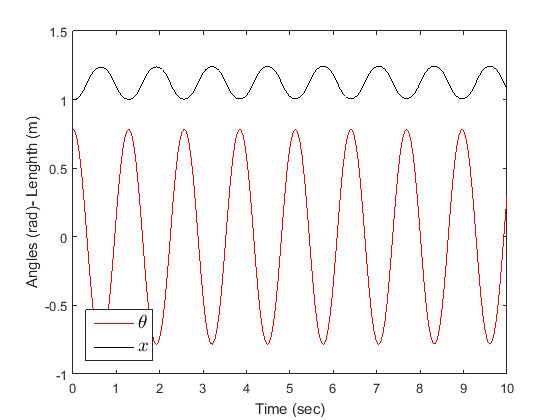
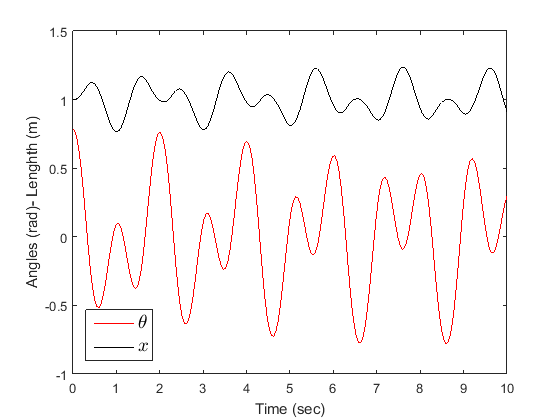
Example 3 Updated

diff --git a/Animator3.m b/Animator3.m
@@ -10,22 +10,31 @@ try
     
     th1 = X(1,1); dx = X(1,2);
     
-    L1  = 3;
+    L1  = 3; % length of pendulum
+    L2 = 1;  % length of spring
+    
     x11 = 5 + dx; y11 = 5;
     
     x12 = x11 + L1*sin(th1);
     y12 = y11 - L1*cos(th1);
     H1  = line([x11 x12],[y11 y12],'linewidth',2);
+    hold on;
+    a = 0.1; tt = linspace(0,L2+dx,1e3);
+    xs = tt; ys = 5+a*sin(100/(L2+dx)*tt);
+    H2 = plot(xs+(5-L2), ys);
+    
     set(gca,'xlim',[3 7],'ylim',[3 6])
     axis equal
     
     hold on;
-    H2 = plot(x11, y11, 's', 'markersize', 14, ...
-        'linewidth', 3, 'color', [0, 0.5, 0], 'markerfacecolor', [0, 0.5, 0]);
+    H3 = plot(x11, y11, 's', 'markersize', 20, ...
+        'linewidth', 2, 'color', [0, 0.8, 0], 'markerfacecolor', [0, 0.8, 0]);
     
-    H3 = plot(x12, y12, 'O', 'markersize', 14, ...
+    H4 = plot(x12, y12, 'O', 'markersize', 14, ...
         'linewidth', 2, 'color', 'r', 'markerfacecolor','r');
     plot([4 6],[y11 y11],'--k');
+    
+
     box on; axis equal
     set(gca,'xlim',[3 7],'ylim',[3 6])
     
@@ -42,10 +51,14 @@ try
         x12 = x11 + L1*sin(th1);
         y12 = y11 - L1*cos(th1);
         
+        a = 0.1; tt = linspace(0,L2+dx,1e3);
+        xs = tt; ys = 5+a*sin(100/(L2+dx)*tt);
+
         %%
         set(H1,'XData',[x11 x12],'YData', [y11 y12])
-        set(H2,'XData', x11, 'YData', y11);
-        set(H3,'XData', x12, 'YData', y12);
+        set(H2, 'XData', xs +(5-L2), 'YData', ys);
+        set(H3,'XData', x11, 'YData', y11);
+        set(H4,'XData', x12, 'YData', y12);
         
         frame = getframe(Hf); im = frame2im(frame); [imind,cm] = rgb2ind(im,256);
         imwrite(imind,cm,filename,'gif', 'WriteMode','append', 'DelayTime',0.05);

diff --git a/EVAL3.m b/EVAL3.m
@@ -3,13 +3,13 @@
 %%
 
 syms th Dth x Dx
-syms M m l g 
+syms M m l k g 
 
 %% Kinetic and Potential Energy
 Vx2 = (Dx + l*Dth*cos(th))^2 + (l*Dth*sin(th))^2;
 T   = 1/2*m*Vx2 + 1/2*M*Dx^2;
 
-V = m*g*l*(1-cos(th));
+V = m*g*l*(1-cos(th)) + 1/2*k*x^2;
 
 L = T - V;
 %% Derive Equations
@@ -19,8 +19,8 @@ Eq = LagrangeDynamicEqDeriver(L, q, Dq);
 %% Solve Equations
 
 tt = linspace(0,10,200);
-[SS, xx] = DynamicEqSolver(Eq, q, Dq, [M m l g],...
-                           [2 1 0.5 9.81], tt, [45/180*pi,0, 0, 0]);
+[SS, xx] = DynamicEqSolver(Eq, q, Dq, [M m l k g],...
+                           [2, 1, 0.5, 50, 9.81], tt, [45/180*pi,0, 0, 0]);
 %% Plot and Animate Responses            
 figure; 
 plot(tt, xx(:,1),'r'); hold on; plot(tt, xx(:,2) + 1,'k');
